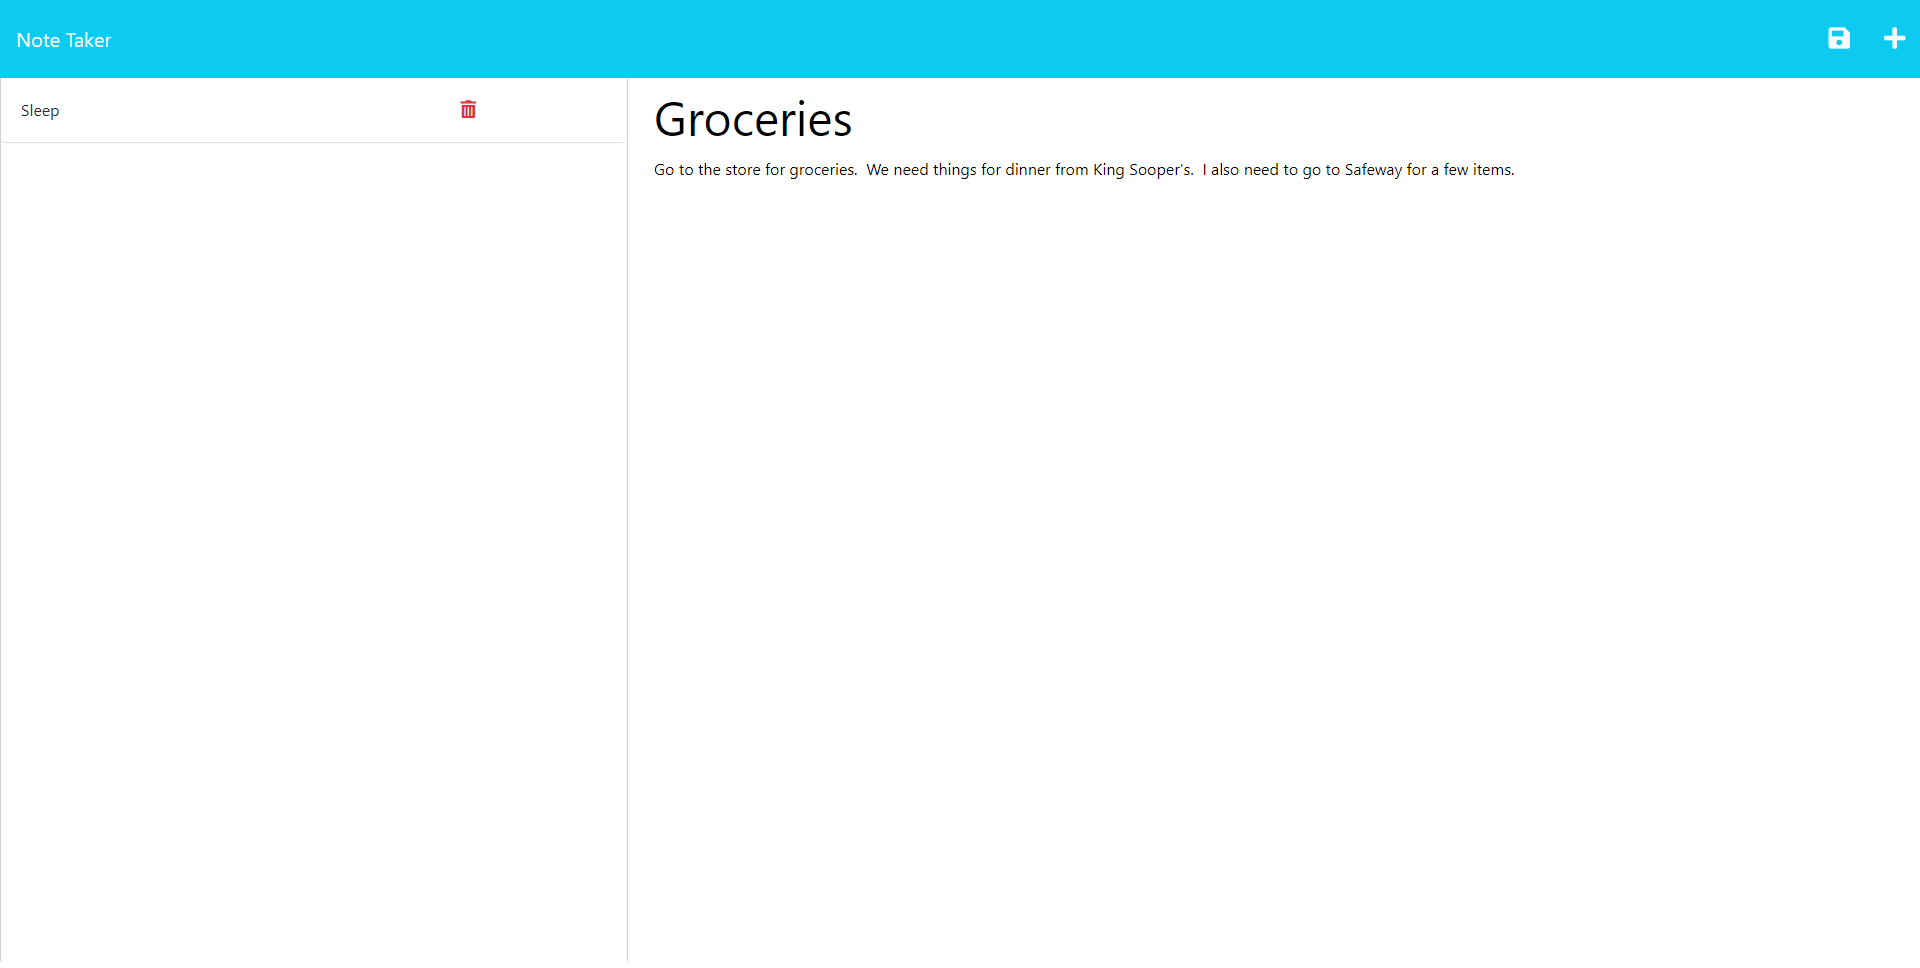
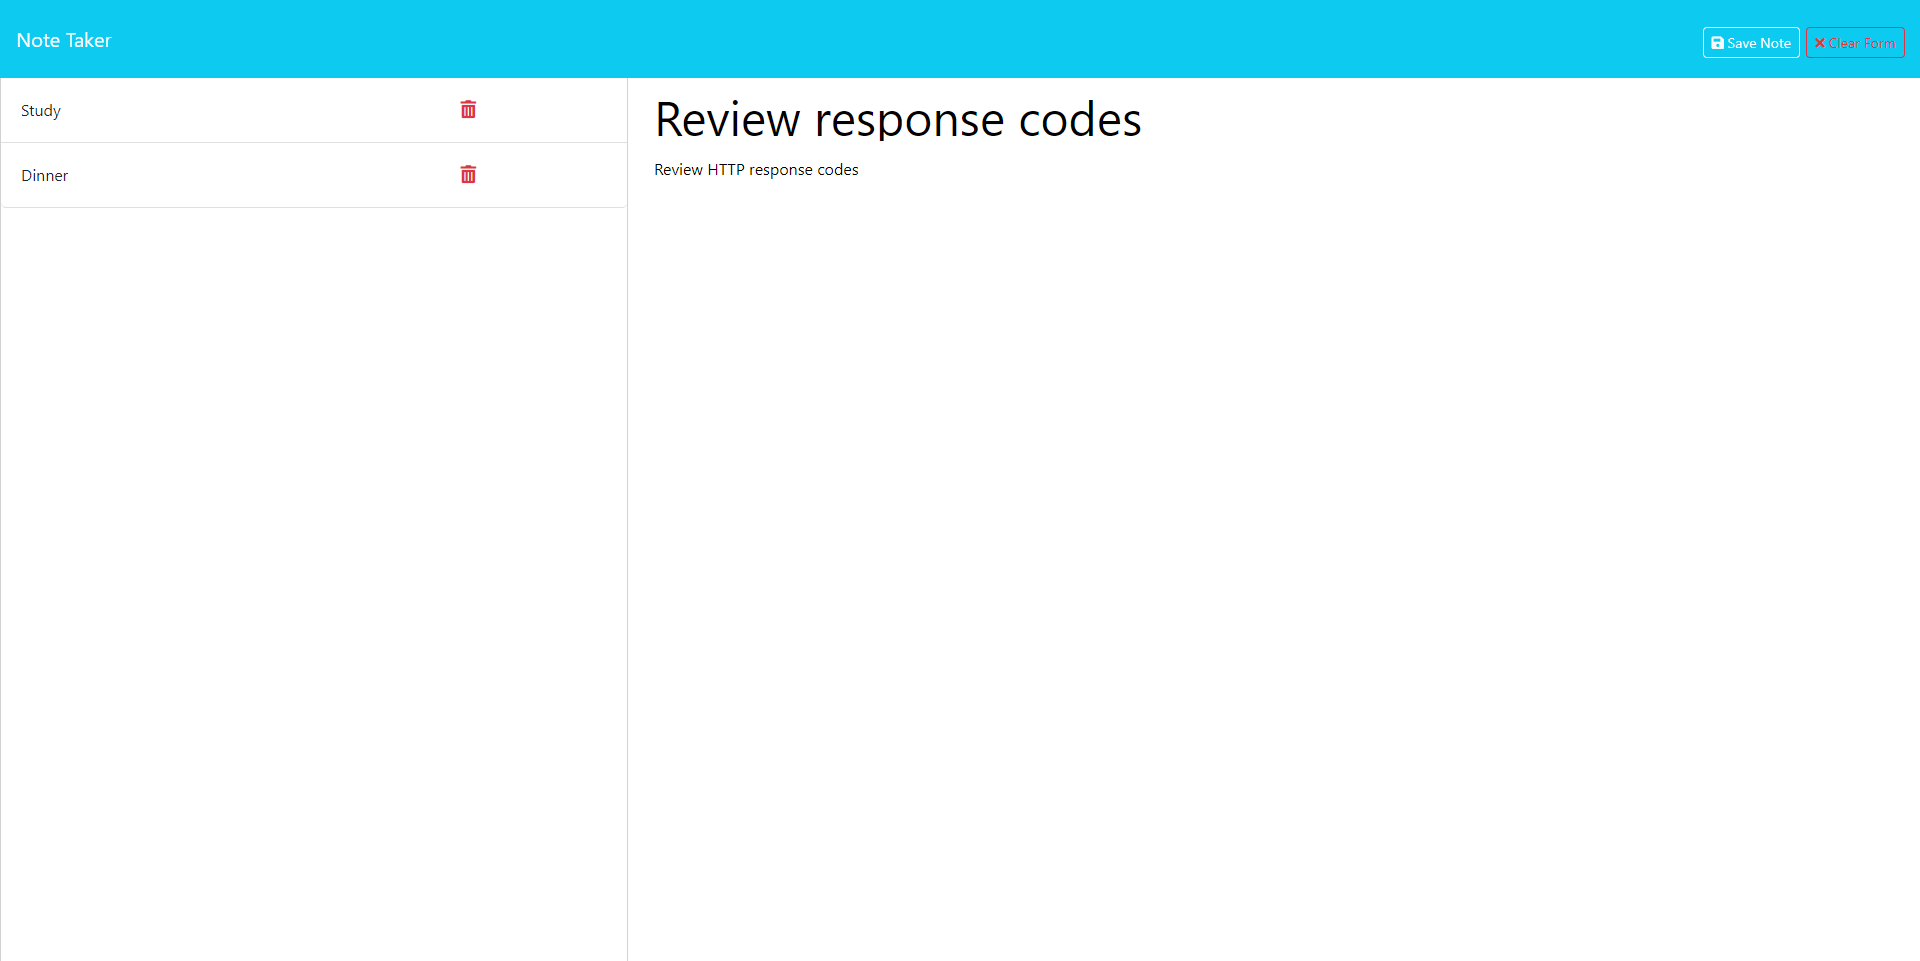
readme updated

diff --git a/README.md b/README.md
@@ -31,7 +31,7 @@ When the notes.html file initially loads, the Note Title and Note Text sections 
 
 Clicking the title of an existing note in the left-hand menu will display the text and title of the information stored in the database.  The note will be displayed in the main note taking section after it is clicked.
 
-To clear the display, the add button in the upper right-hand corner of the window can be clicked.  A new note can then be added.
+To clear the display, the "Clear Form" button in the upper right-hand corner of the window can be clicked.  A new note can then be added.  Notes can also be deleted using the trash icon.
 
 ![Note Taker Application](./images/note_taker_home.png)
 ![Note Taker Application](./images/note_taker_notes.png)
@@ -44,7 +44,7 @@ This application is covered under the license linked below.  For further informa
 
 ## Contributions
 
-No additional contributions from other developers were made to this project.
+Lacey Trokey was consulted to help process the delay in GET requests reading changes to the database after updates.  Lacey helped to define the promisify of read and write operations.
 
 ## Questions
 
